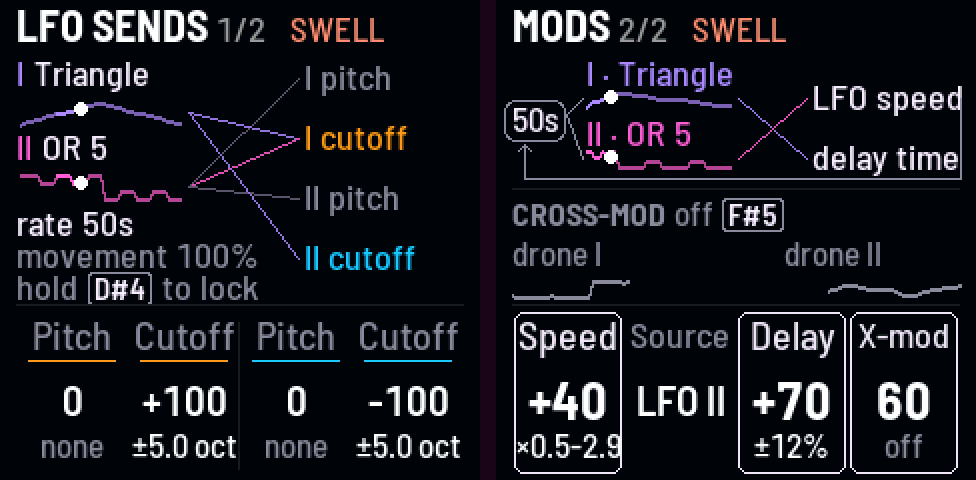
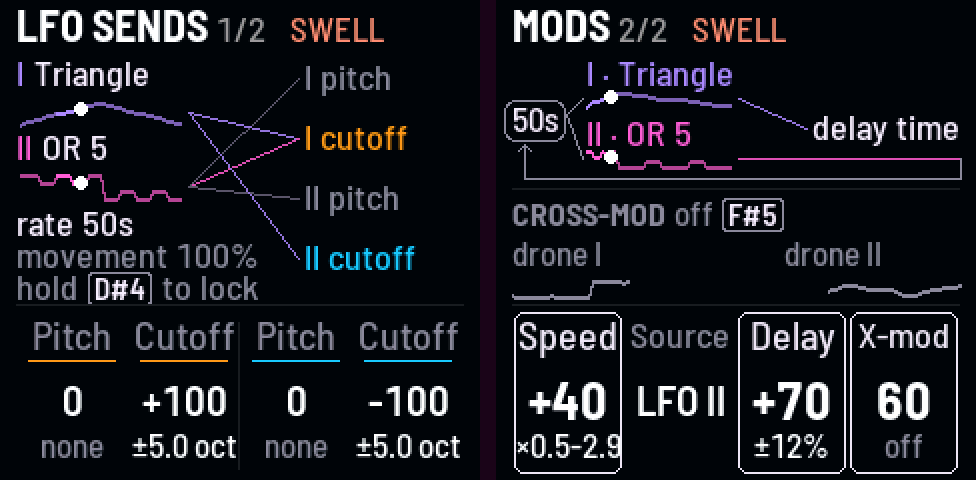
Mods: the Source wave loops straight back into the clock, the delay the band's one way out (nothing crosses); LFO sends draws the waves bent by Speed as Mods does (one table)

Changed region(s): [[0.7684, 0.1562, 1.0, 0.375]]

diff --git a/firmware/src/app/look.c b/firmware/src/app/look.c
@@ -1170,6 +1170,34 @@ static void lk_harrow(int32_t x, int32_t y, int32_t w, int right, uint16_t c)
 
 /* one cycle of a wave across w, as the engine plays it (random: this cycle's phases), y in -amp..amp; and the x of
  * the phase now on it */
+/* the LFO's phase at n even steps of time across one cycle, as Speed bends the clock (a bit of the cycle takes
+ * 2^(-rm * Source)): always forward, from its start to its end (stepping by speed overran it and wrapped, and the dot
+ * stuck at the end at negative Speed; Evan, 2026-11-03). Mods and LFO sends draw the waves on it, so both show the
+ * LFO as it runs (Evan, 2026-11-03); 0 at Speed 0, the plain cycle */
+static const float *lk_lfo_phs(float *phs, int n)
+{
+    const int w1 = proj.par[P_LFO_W1], w2 = proj.par[P_LFO_W2], src = proj.par[P_LFO_RMOD_SRC];
+    const float rm = (float)proj.par[P_LFO_RMOD] * 0.03f;
+    float tm[64];
+    int i, j;
+    if (rm == 0.0f)
+        return 0;
+    tm[0] = 0.0f;
+    for (i = 0; i < n - 1; i++) {
+        const float ph = ((float)i + 0.5f) / (float)(n - 1);
+        const float v0 = dr_lfo_wave(0, w1, ph), v1 = dr_lfo_wave(1, w2, ph);
+        const float s = src == DR_LFO_BOTH ? fm_clampf(v0 + v1, -1.0f, 1.0f) : src == DR_LFO_II ? v1 : v0;
+        tm[i + 1] = tm[i] + fm_exp2f(-rm * s);
+    }
+    for (i = 0, j = 0; i < n; i++) {
+        const float tt = tm[n - 1] * (float)i / (float)(n - 1);
+        while (j < n - 2 && tm[j + 1] < tt)
+            j++;
+        phs[i] = fm_minf(((float)j + (tt - tm[j]) / fm_maxf(tm[j + 1] - tm[j], 1e-6f)) / (float)(n - 1), 0.9999f);
+    }
+    return phs;
+}
+
 static void lk_lfo_line(int tap, int32_t x0, int32_t yc, int32_t amp, int n, const float *phs, int lit)
 {
     const int sh = proj.par[tap ? P_LFO_W2 : P_LFO_W1];
@@ -1211,6 +1239,8 @@ static void lk_pic_lfo(void)
     int32_t wy[2];
     int w, d;
     char t[24], *q;
+    float phs[41];
+    const float *ph = lk_lfo_phs(phs, 41);      /* the waves bent as Speed bends the clock, as on Mods */
     for (w = 0; w < 2; w++) {                  /* "I Triangle", its wave under it */
         const int sh = proj.par[w ? P_LFO_W2 : P_LFO_W1];
         const int32_t ny = w * wh;
@@ -1218,7 +1248,7 @@ static void lk_pic_lfo(void)
         dr_param_text(w ? P_LFO_W2 : P_LFO_W1, sh, t);
         cv_text(x + 5, ny, &LK_F_SMALL, t, sh ? LK_INK : LK_LABEL);
         wy[w] = ny + (int32_t)LK_F_SMALL.h + (wh - (int32_t)LK_F_SMALL.h) / 2;
-        lk_lfo_line(w, 10, wy[w], (wh - (int32_t)LK_F_SMALL.h) / 2 - 3, 41, 0, 1);
+        lk_lfo_line(w, 10, wy[w], (wh - (int32_t)LK_F_SMALL.h) / 2 - 3, 41, ph, 1);
     }
     q = scopy(t, clock ? "cycle " : "rate ");
     dr_param_text(clock ? P_LFO_DIV : P_LFO_RATE, proj.par[clock ? P_LFO_DIV : P_LFO_RATE], q);
@@ -1260,27 +1290,12 @@ static void lk_pic_lfo(void)
 static void lk_pic_mods(void)
 {
     const int w1 = proj.par[P_LFO_W1], w2 = proj.par[P_LFO_W2], src = proj.par[P_LFO_RMOD_SRC], rmd = proj.par[P_LFO_RMOD];
-    const float rm = (float)rmd * 0.03f;
     const int xm = proj.par[P_XMOD], amt = proj.par[P_XMOD_AMT];
-    float phs[37], tm[37];
+    float phs[37];
     int32_t wy[2], x;
-    int i, w, j;
+    int i, w;
     char t[24];
-    tm[0] = 0.0f;                              /* the time to each 36th of the cycle (a bit takes 2^(-rm * wave)) */
-    for (i = 0; i < 36; i++) {
-        const float ph = ((float)i + 0.5f) * (1.0f / 36.0f);
-        const float v0 = dr_lfo_wave(0, w1, ph), v1 = dr_lfo_wave(1, w2, ph);
-        const float s = src == DR_LFO_BOTH ? fm_clampf(v0 + v1, -1.0f, 1.0f) : src == DR_LFO_II ? v1 : v0;
-        tm[i + 1] = tm[i] + fm_exp2f(-rm * s);
-    }
-    for (i = 0, j = 0; i < 37; i++) {          /* then the phase at each 36th of the time: always forward, from the
-                                                * cycle's start to its end (stepping by speed overran it and wrapped,
-                                                * and the dot stuck at the end at negative Speed; Evan, 2026-11-03) */
-        const float tt = tm[36] * (float)i * (1.0f / 36.0f);
-        while (j < 35 && tm[j + 1] < tt)
-            j++;
-        phs[i] = fm_minf(((float)j + (tt - tm[j]) / fm_maxf(tm[j + 1] - tm[j], 1e-6f)) * (1.0f / 36.0f), 0.9999f);
-    }
+    const float *ph = lk_lfo_phs(phs, 37);
     {   /* the clock */
         dr_param_text(dr_ext_spb > 0.0f ? P_LFO_DIV : P_LFO_RATE, proj.par[dr_ext_spb > 0.0f ? P_LFO_DIV : P_LFO_RATE], t);
         x = text_w(&LK_F_TAG, t) + 8;
@@ -1297,29 +1312,29 @@ static void lk_pic_mods(void)
         cv_text(xn, ny, &LK_F_SMALL, t, sh ? lk_mix(0x07060Bu, LK_LFO_TINT[w], 1.0f) : LK_LABEL);
         wy[w] = ny + (int32_t)LK_F_SMALL.h + 2;
         cv_line(x, 29, xn - 2, wy[w], LK_LABEL);      /* the clock branching to both */
-        lk_lfo_line(w, xn, wy[w], 4, 37, phs, 1);
+        lk_lfo_line(w, xn, wy[w], 4, 37, ph, 1);
     }
     {   /* the rows: Speed mod from its Source, Delay mod from key 10's LFO */
         const int dl = proj.par[P_DLY_LFO], dd = proj.par[P_DLY_LFO_DEPTH];
         const int sp_on = rmd && proj.par[P_MOVE] && (lk_wave_on(src, 0) || lk_wave_on(src, 1));
         const int dl_on = dd && proj.par[P_MOVE] && (lk_wave_on(dl, 0) || lk_wave_on(dl, 1));
-        const int32_t ry0 = wy[0] - (int32_t)LK_F_SMALL.h / 2, ry1 = wy[1] - (int32_t)LK_F_SMALL.h / 2;   /* level
-                                                                                         * with the waves */
-        const int32_t sx_end = cv_text(158, ry0, &LK_F_SMALL, "LFO speed", sp_on ? LK_INK : LK_LABEL);   /* no
-                                                                                         * sliders (Evan) */
-        cv_text(158, ry1, &LK_F_SMALL, "delay time", dl_on ? LK_INK : LK_LABEL);
+        const int32_t my = (wy[0] + wy[1]) / 2;   /* "delay time" between the waves, the band's one way out */
+        int32_t top = 61;
+        cv_text(158, my - (int32_t)LK_F_SMALL.h / 2, &LK_F_SMALL, "delay time", dl_on ? LK_INK : LK_LABEL);
         for (w = 0; w < 2; w++) {
-            if (src == w + 1 || src == DR_LFO_BOTH)
-                cv_line(x + 86, wy[w], 155, wy[0], sp_on && lk_wave_on(src, w) ? lk_mix(0x07060Bu, LK_LFO_TINT[w], 0.85f)
-                                                                              : LK_UNLIT);
             if (dl == w + 1 || dl == DR_LFO_BOTH)
-                cv_line(x + 86, wy[w], 155, wy[1], dl_on && lk_wave_on(dl, w) ? lk_mix(0x07060Bu, LK_LFO_TINT[w], 0.85f)
-                                                                             : LK_UNLIT);
+                cv_line(x + 86, wy[w], 155, my, dl_on && lk_wave_on(dl, w) ? lk_mix(0x07060Bu, LK_LFO_TINT[w], 0.85f)
+                                                                           : LK_UNLIT);
+            if (src == w + 1 || src == DR_LFO_BOTH) {   /* Speed: the Source wave straight back into the clock */
+                cv_rect(x + 86, wy[w], 233 - x - 86, 1, sp_on && lk_wave_on(src, w) ? lk_mix(0x07060Bu, LK_LFO_TINT[w], 0.85f)
+                                                                                   : LK_UNLIT);
+                if (wy[w] < top)
+                    top = wy[w];
+            }
         }
-        {   /* the loop: out of LFO speed, round the right edge and under the waves, back up into the clock */
+        {   /* round the right edge and under the waves, up into the clock */
             const uint16_t c = sp_on ? LK_LABEL : LK_UNLIT;
-            cv_rect(sx_end + 3, wy[0], 233 - sx_end - 3, 1, c);
-            cv_rect(232, wy[0], 1, 62 - wy[0], c);
+            cv_rect(232, top, 1, 62 - top, c);
             cv_rect(14, 61, 219, 1, c);
             cv_rect(14, 23 + (int32_t)LK_F_TAG.h + 2, 1, 61 - 23 - (int32_t)LK_F_TAG.h - 2, c);
             cv_line(14, 25 + (int32_t)LK_F_TAG.h, 11, 28 + (int32_t)LK_F_TAG.h, c);
